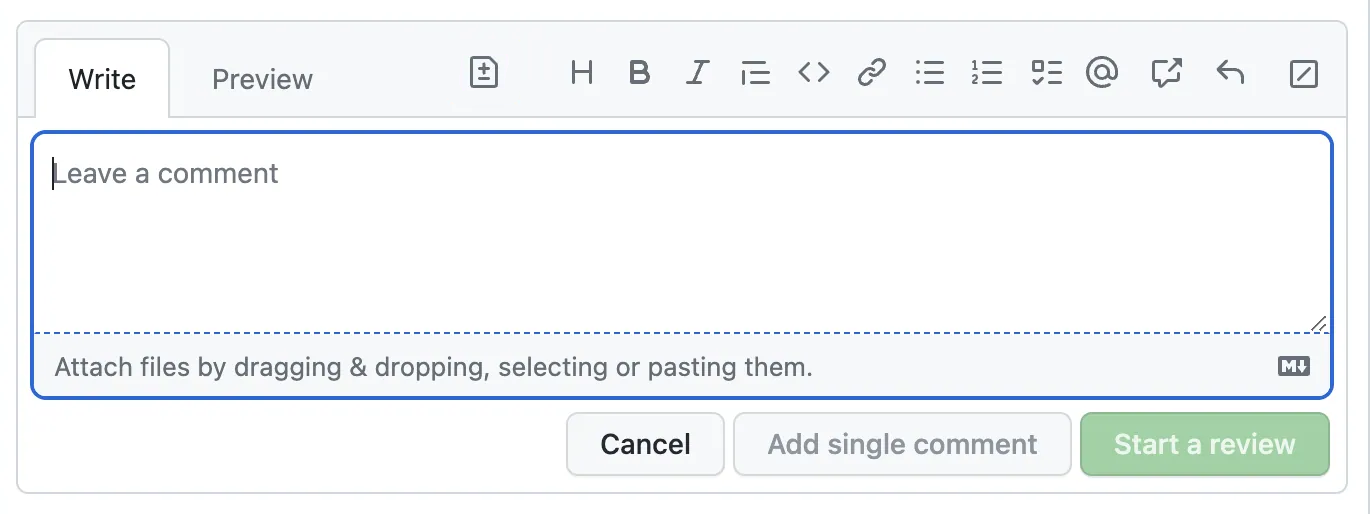
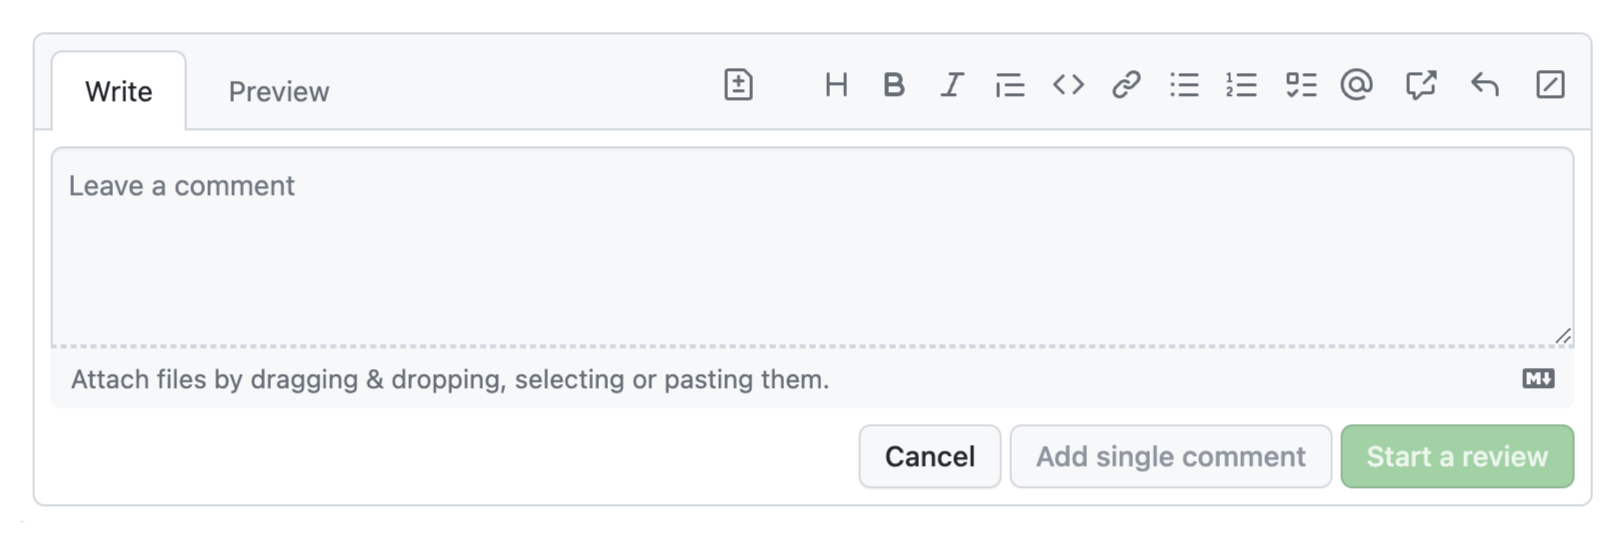
update images + copy

Changed region(s): [[0.0, 0.0311, 1.0, 0.965], [0.3372, 0.0934, 0.3679, 0.1868]]

diff --git a/blog/2023/minimalist-affordances/index.md b/blog/2023/minimalist-affordances/index.md
@@ -64,21 +64,12 @@ For comparison, this was the old UI:
 
 <figure>
 
-![Screenshot](images/old-comment-unfocused.png)
-
-<figcaption>
-
-The old GitHub commenting UI, unfocused.
-</figcaption>
-</figure>
-
-<figure>
-
+![Screenshot](images/old-comment-focused.png)
 ![Screenshot](images/old-comment.png)
 
 <figcaption>
 
-The old GitHub commenting UI, focused.
+The old GitHub commenting UI, with and without focus.
 </figcaption>
 </figure>
 
